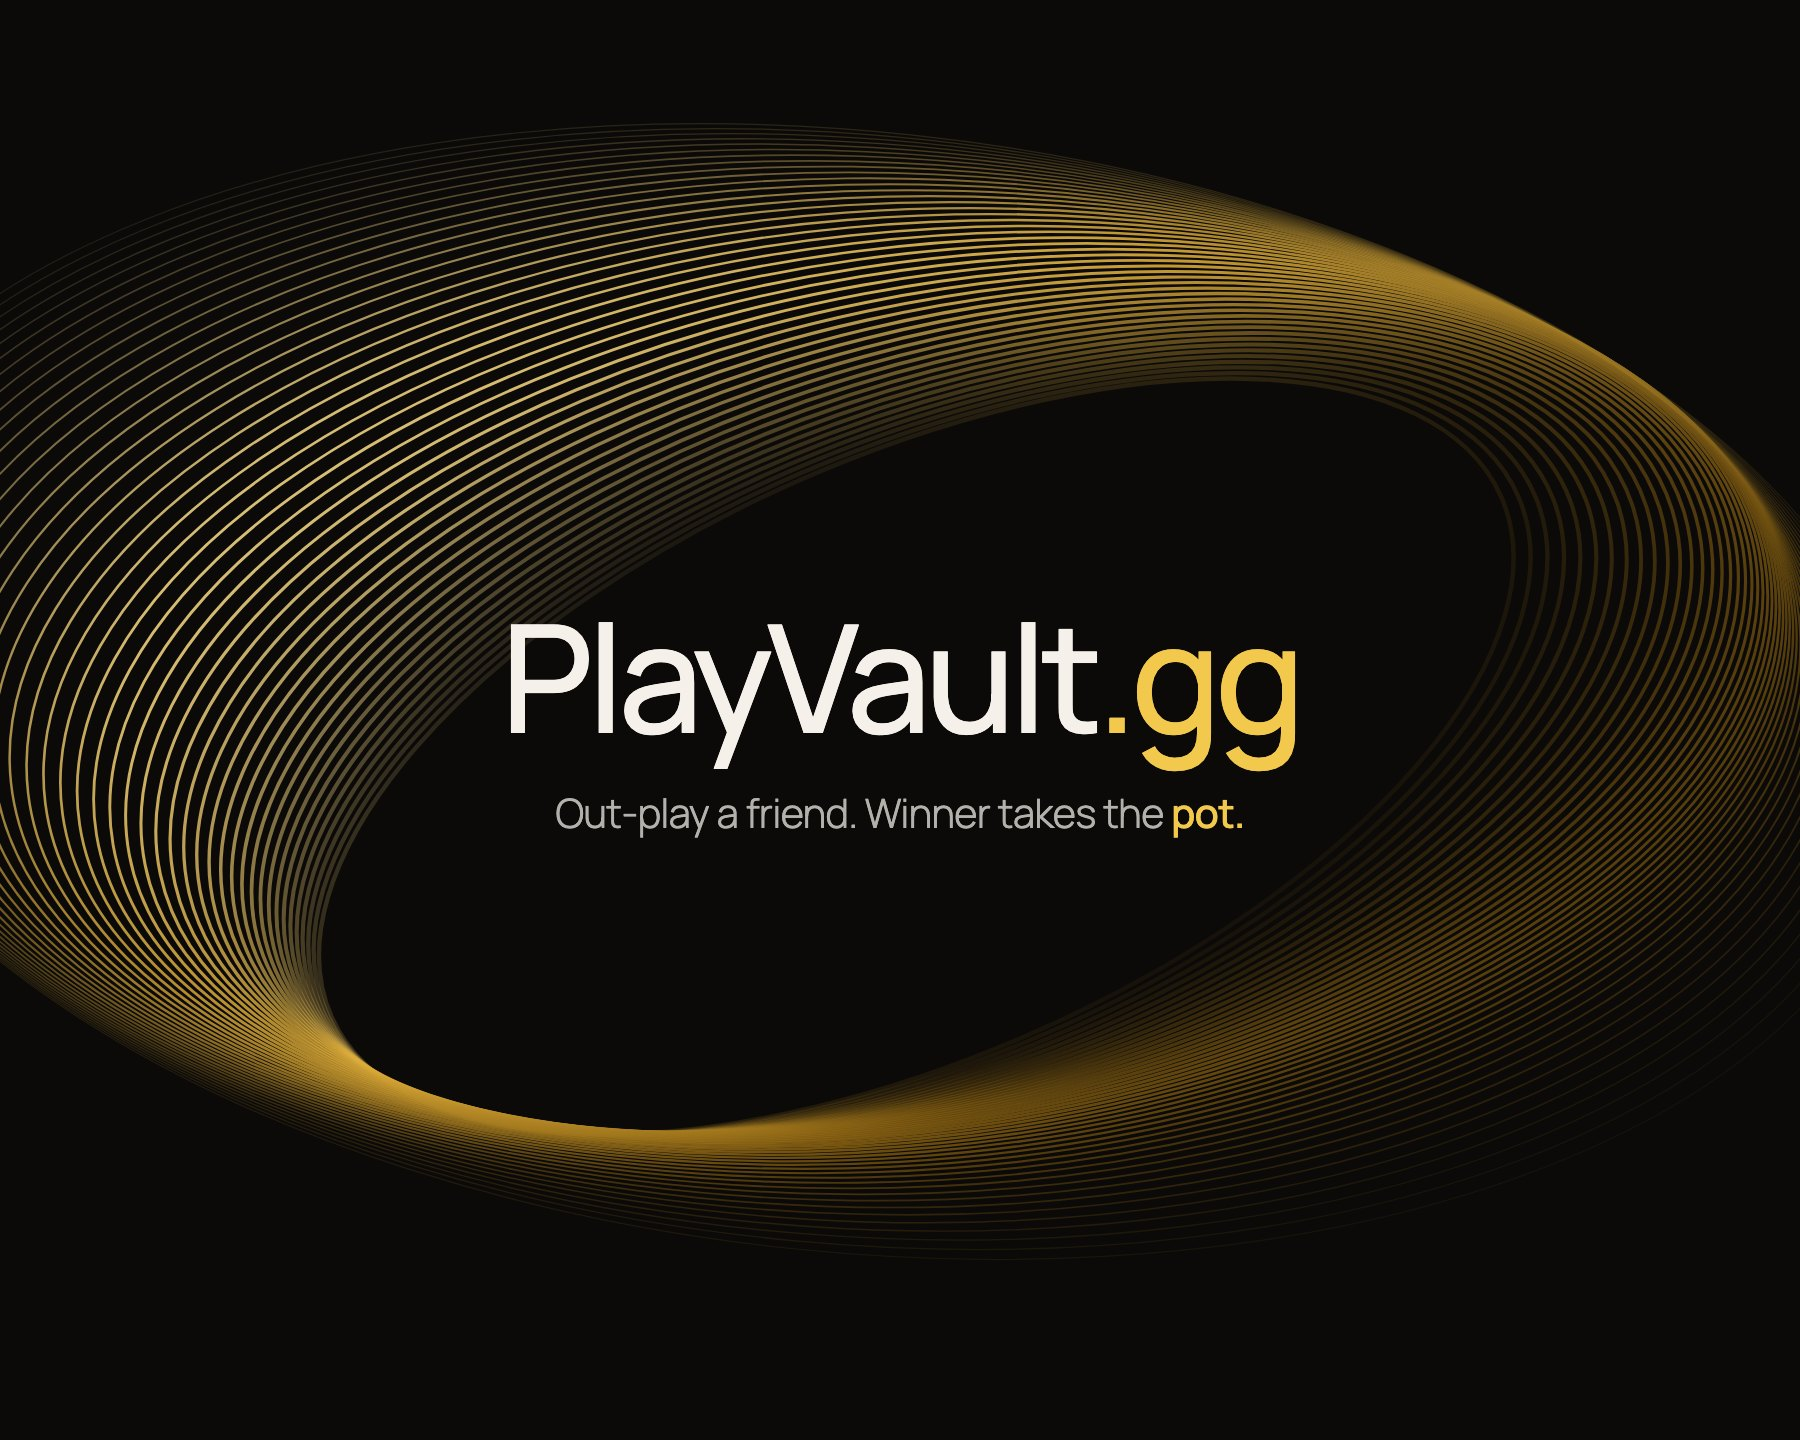
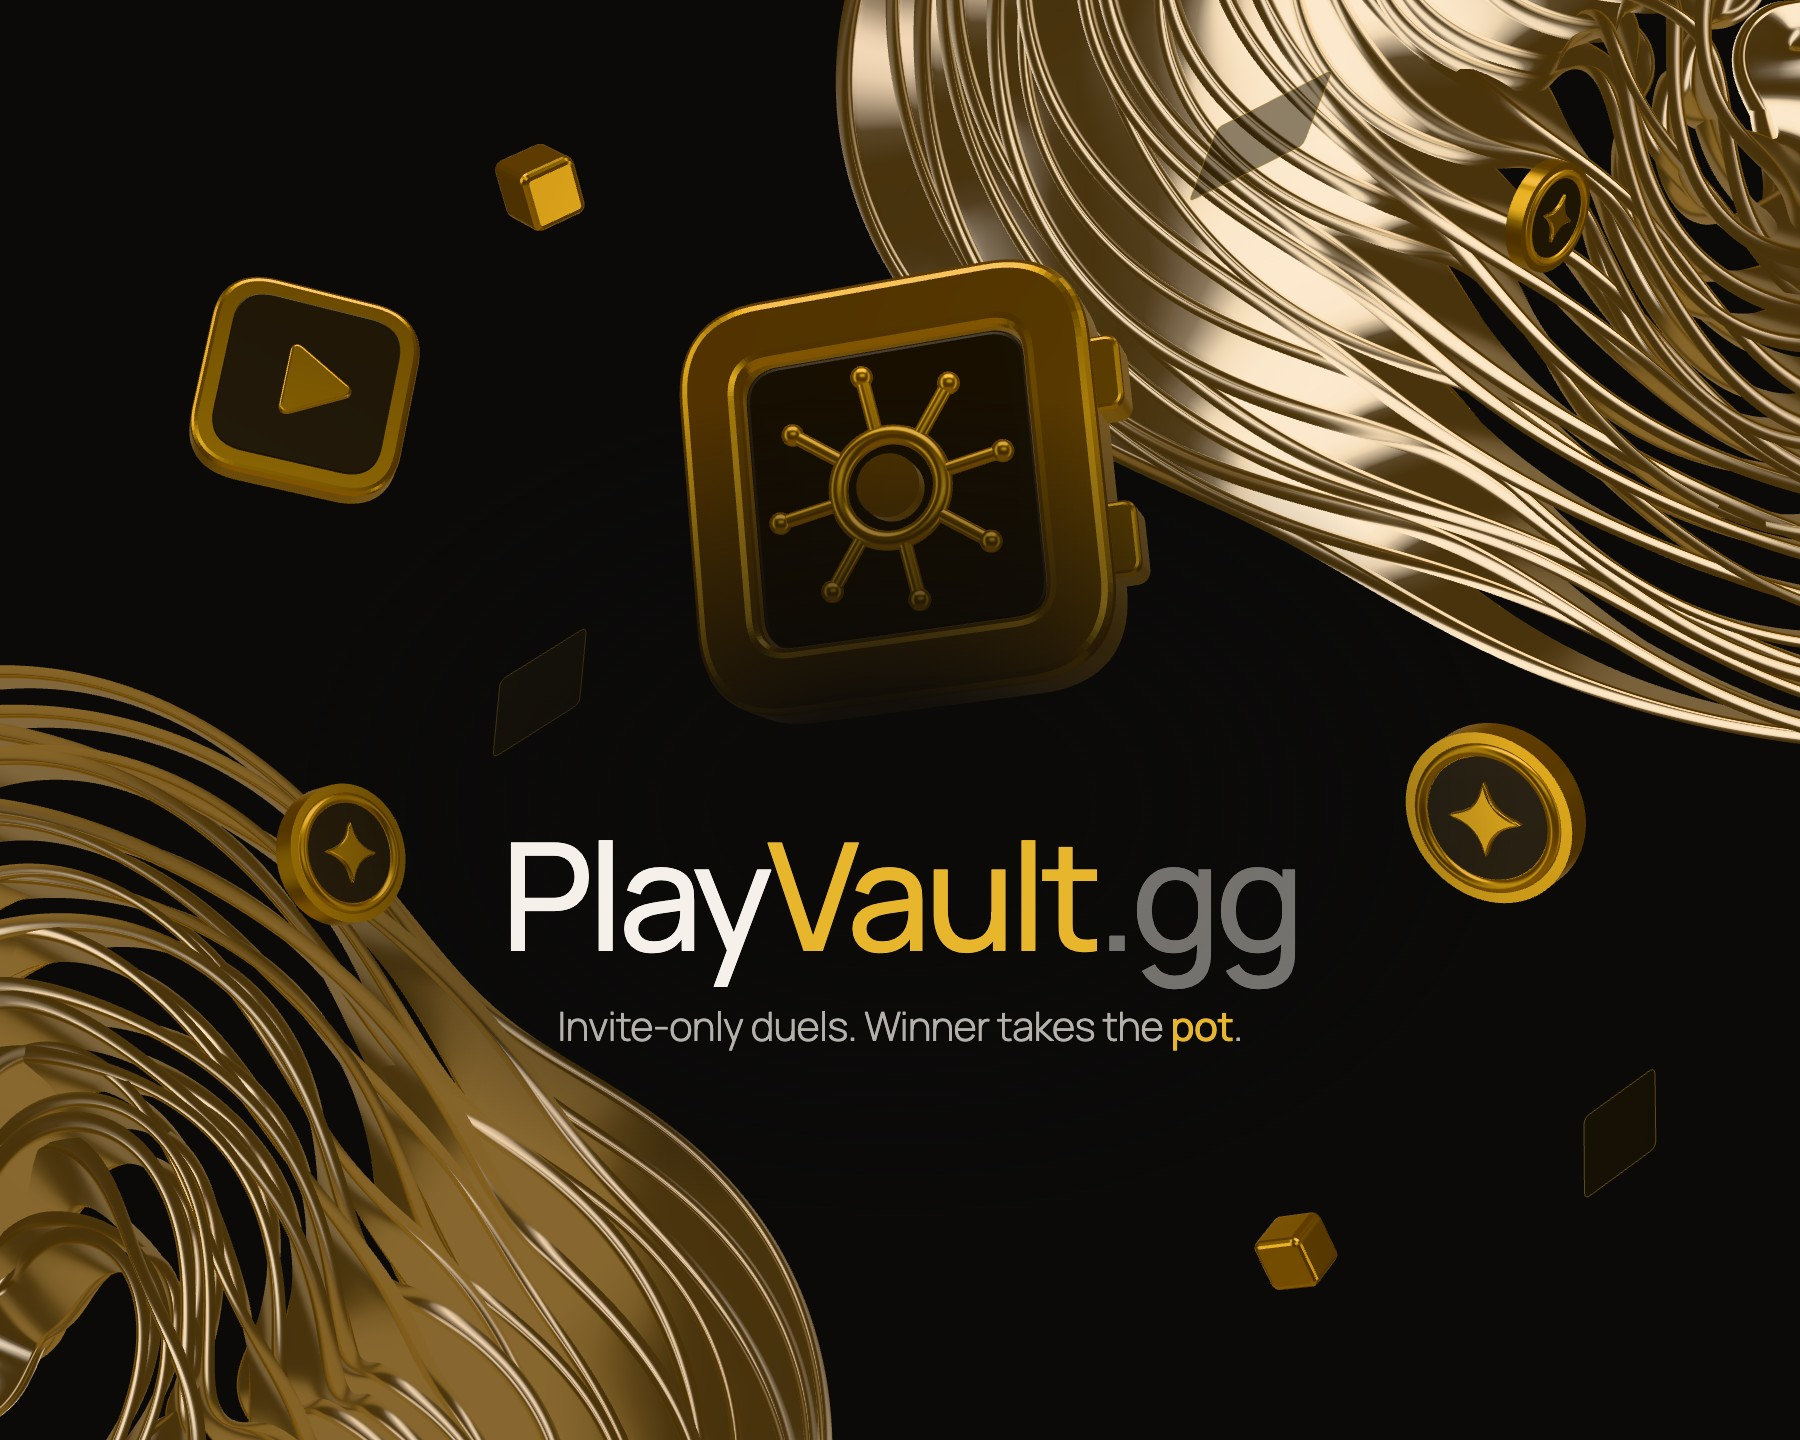
Add Oomi and Pip, simplify cover art and copy
- New Oomi card (links to the GitHub repo) with a ghost cover
- Pip card and cover; PlayVault cover refresh; seven live projects
- Remove taglines from the Cook & Run, Pip, Bubble Arena and CrazyLab covers
- CrazyLab copy: "Create the best mathematics animations."
- Drop "Nobody gets busted" from Cook & Run

diff --git a/index.html b/index.html
@@ -4,7 +4,7 @@
   <meta charset="utf-8">
   <meta name="viewport" content="width=device-width, initial-scale=1">
   <title>osmos.games — independent projects</title>
-  <meta name="description" content="osmos.games: independent apps and games by Osmos Studio — CrazyLab, Food Radar, PlayVault.gg, Bubble Arena and Cook &amp; Run.">
+  <meta name="description" content="osmos.games: independent apps and games by Osmos Studio — CrazyLab, Food Radar, Oomi, PlayVault.gg, Bubble Arena, Cook &amp; Run and Pip.">
   <meta name="theme-color" content="#000000">
   <link rel="icon" href="/favicon.png" type="image/png">
 
@@ -57,7 +57,7 @@
         </div>
 
         <div class="hero-foot reveal">
-          <p class="hero-sub">Five live projects.</p>
+          <p class="hero-sub">Seven live projects.</p>
           <a class="scroll-cue" href="#games" aria-label="Scroll to projects">
             <span>See the work</span>
             <svg viewBox="0 0 24 24" aria-hidden="true"><path d="M12 4v16m0 0-6-6m6 6 6-6"/></svg>
@@ -83,7 +83,7 @@
         <!-- PlayVault.gg -->
         <a class="project span-5 reveal" href="https://playvault.gg" target="_blank" rel="noopener" style="--accent: #ffd23f">
           <div class="project-art" aria-hidden="true">
-            <img class="shot" src="/assets/previews/playvault-gg.jpg" alt="" style="--shot-pos: center" width="1800" height="1440" loading="lazy" decoding="async">
+            <img class="shot" src="/assets/previews/playvault-gg.jpg?v=5" alt="" style="--shot-pos: center" width="1800" height="1440" loading="lazy" decoding="async">
           </div>
           <div class="project-meta">
             <div>
@@ -99,7 +99,7 @@
         <!-- Bubble Arena / Splatter -->
         <a class="project span-7 reveal" href="https://splatter.onrender.com" target="_blank" rel="noopener" style="--accent: #ff5f04">
           <div class="project-art" aria-hidden="true">
-            <img class="shot" src="/assets/previews/bubble-arena.jpg" alt="" style="--shot-pos: center" width="1800" height="1040" loading="lazy" decoding="async">
+            <img class="shot" src="/assets/previews/bubble-arena.jpg?v=3" alt="" style="--shot-pos: center" width="1800" height="1040" loading="lazy" decoding="async">
           </div>
           <div class="project-meta">
             <div>
@@ -115,17 +115,33 @@
         <!-- Cook & Run -->
         <a class="project project--wide reveal" href="https://cook-run.onrender.com" target="_blank" rel="noopener" style="--accent: #e0a92e">
           <div class="project-art" aria-hidden="true">
-            <img class="shot" src="/assets/previews/cook-run.jpg" alt="" style="--shot-pos: center" width="2400" height="960" loading="lazy" decoding="async">
+            <img class="shot" src="/assets/previews/cook-run.jpg?v=2" alt="" style="--shot-pos: center" width="2400" height="960" loading="lazy" decoding="async">
           </div>
           <div class="project-meta">
             <div>
               <h3>Cook &amp; Run</h3>
-              <p>A two-player co-op road chase. One drives the RV, one runs the mobile lab in the back. Nobody gets busted.</p>
+              <p>A two-player co-op road chase. One drives the RV, one runs the mobile lab in the back.</p>
               <ul class="tags"><li>Co-op</li><li>Browser game</li></ul>
             </div>
             <span class="go" aria-hidden="true"><svg viewBox="0 0 24 24"><path d="M7 17 17 7M8 7h9v9"/></svg></span>
           </div>
           <span class="sr-only">(opens cook-run.onrender.com in a new tab)</span>
+        </a>
+
+        <!-- Pip -->
+        <a class="project project--wide reveal" href="https://pip-game.onrender.com" target="_blank" rel="noopener" style="--accent: #c8b4ff">
+          <div class="project-art" aria-hidden="true">
+            <img class="shot" src="/assets/previews/pip.jpg?v=5" alt="" style="--shot-pos: center" width="2400" height="960" loading="lazy" decoding="async">
+          </div>
+          <div class="project-meta">
+            <div>
+              <h3>Pip</h3>
+              <p>Multiple games. Only one bubble wins.</p>
+              <ul class="tags"><li>Party</li><li>3D</li><li>Browser game</li></ul>
+            </div>
+            <span class="go" aria-hidden="true"><svg viewBox="0 0 24 24"><path d="M7 17 17 7M8 7h9v9"/></svg></span>
+          </div>
+          <span class="sr-only">(opens Pip in a new tab)</span>
         </a>
       </div>
     </section>
@@ -141,12 +157,12 @@
         <!-- CrazyLab -->
         <a class="project span-7 reveal" href="https://crazylab.io" target="_blank" rel="noopener" style="--accent: #ff77cd">
           <div class="project-art" aria-hidden="true">
-            <img class="shot" src="/assets/previews/crazylab.jpg" alt="" style="--shot-pos: center" width="1800" height="1040" loading="lazy" decoding="async">
+            <img class="shot" src="/assets/previews/crazylab.jpg?v=2" alt="" style="--shot-pos: center" width="1800" height="1040" loading="lazy" decoding="async">
           </div>
           <div class="project-meta">
             <div>
               <h3>CrazyLab</h3>
-              <p>Learn what you upload. Turn your own files into study material.</p>
+              <p>Create the best mathematics animations.</p>
               <ul class="tags"><li>Learning</li><li>AI</li></ul>
             </div>
             <span class="go" aria-hidden="true"><svg viewBox="0 0 24 24"><path d="M7 17 17 7M8 7h9v9"/></svg></span>
@@ -168,6 +184,22 @@
             <span class="go" aria-hidden="true"><svg viewBox="0 0 24 24"><path d="M7 17 17 7M8 7h9v9"/></svg></span>
           </div>
           <span class="sr-only">(opens Food Radar in a new tab)</span>
+        </a>
+
+        <!-- Oomi -->
+        <a class="project project--wide reveal" href="https://github.com/fastct01/Oomi-main" target="_blank" rel="noopener" style="--accent: #ffffff">
+          <div class="project-art" aria-hidden="true">
+            <img class="shot" src="/assets/previews/oomi.jpg" alt="" style="--shot-pos: center" width="2400" height="960" loading="lazy" decoding="async">
+          </div>
+          <div class="project-meta">
+            <div>
+              <h3>Oomi</h3>
+              <p>A self-improving AI agent for your computer.</p>
+              <ul class="tags"><li>AI agent</li><li>Desktop</li><li>Open source</li></ul>
+            </div>
+            <span class="go" aria-hidden="true"><svg viewBox="0 0 24 24"><path d="M7 17 17 7M8 7h9v9"/></svg></span>
+          </div>
+          <span class="sr-only">(opens the Oomi repository on GitHub in a new tab)</span>
         </a>
       </div>
     </section>
